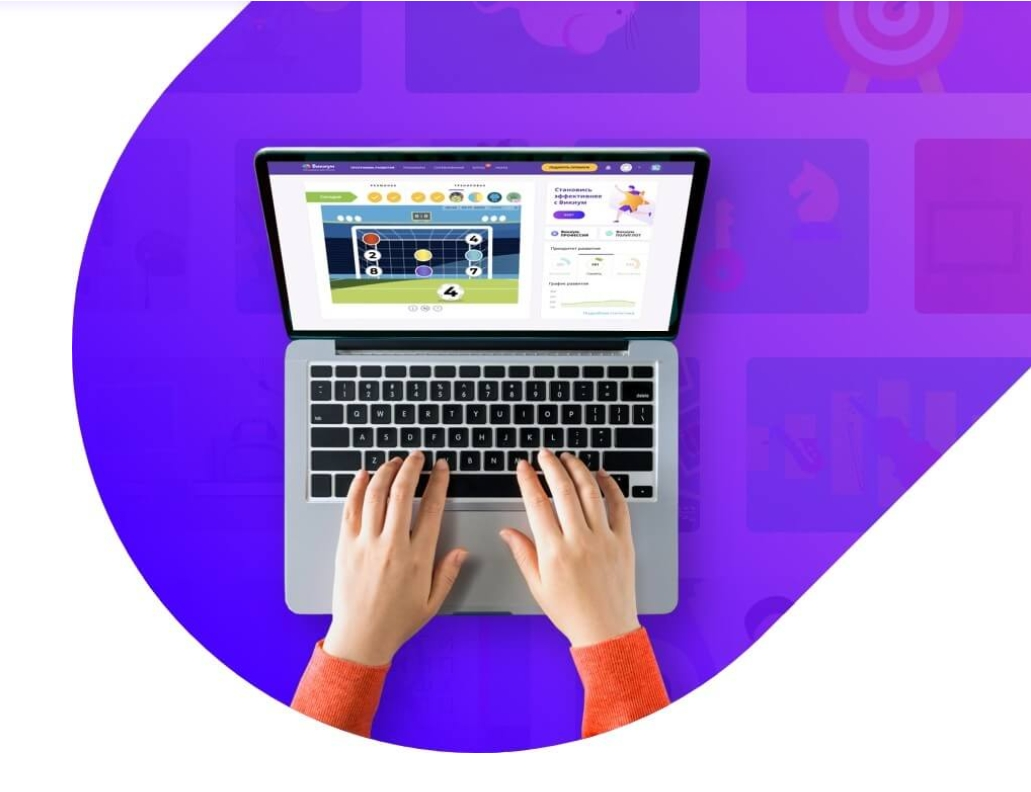
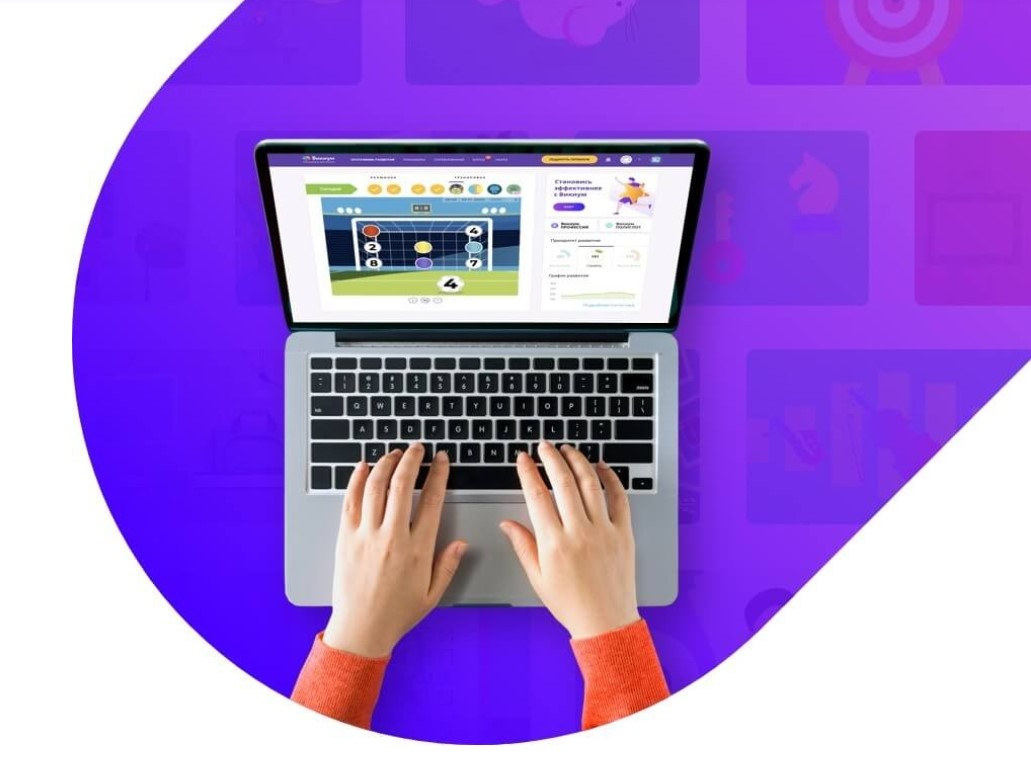
Add main content styles.

diff --git a/src/app/components/help/Help.component.html b/src/app/components/help/Help.component.html
@@ -1,45 +1,47 @@
 <section class="main-content__help help">
   <h2 class="main-content__title">Wikium will help</h2>
-  <article class="help__item">
-    <div class="help__img">
-      <img src="" alt="icon help">
-    </div>
-    <h4 class="help__title">Become more organized</h4>
-    <p class="help__description">Stop looking for the keys all the time</p>
-  </article>
-  <article class="help__item">
-    <div class="help__img">
-      <img src="" alt="icon help">
-    </div>
-    <h4 class="help__title">Think logically</h4>
-    <p class="help__description">Prove your words clearly</p>
-  </article>
-  <article class="help__item">
-    <div class="help__img">
-      <img src="" alt="icon help">
-    </div>
-    <h4 class="help__title">Memorize names and dates</h4>
-    <p class="help__description">Stop forgetting birthdays</p>
-  </article>
-  <article class="help__item">
-    <div class="help__img">
-      <img src="" alt="icon help">
-    </div>
-    <h4 class="help__title">Reveal the potential</h4>
-    <p class="help__description">Master the mnemonics, speed reading and other techniques</p>
-  </article>
-  <article class="help__item">
-    <div class="help__img">
-      <img src="" alt="icon help">
-    </div>
-    <h4 class="help__title">Find harmony in relationships</h4>
-    <p class="help__description">Learn to control and manage emotions</p>
-  </article>
-  <article class="help__item">
-    <div class="help__img">
-      <img src="" alt="icon help">
-    </div>
-    <h4 class="help__title">Grow professionally</h4>
-    <p class="help__description">Develop career skills</p>
-  </article>
+  <div class="help__container">
+    <article class="help__item">
+      <div class="help__img">
+        <img alt="icon help" height="45" width="46" src="../../../favicon.ico"/>
+      </div>
+      <h4 class="help__title">Become more organized</h4>
+      <p class="help__description">Stop looking for the keys all the time</p>
+    </article>
+    <article class="help__item">
+      <div class="help__img">
+        <img alt="icon help" height="45" width="46" src="../../../favicon.ico"/>
+      </div>
+      <h4 class="help__title">Think logically</h4>
+      <p class="help__description">Prove your words clearly</p>
+    </article>
+    <article class="help__item">
+      <div class="help__img">
+        <img alt="icon help" height="45" width="46" src="../../../favicon.ico"/>
+      </div>
+      <h4 class="help__title">Memorize names and dates</h4>
+      <p class="help__description">Stop forgetting birthdays</p>
+    </article>
+    <article class="help__item">
+      <div class="help__img">
+        <img alt="icon help" height="45" width="46" src="../../../favicon.ico"/>
+      </div>
+      <h4 class="help__title">Reveal the potential</h4>
+      <p class="help__description">Master the mnemonics, speed reading and other techniques</p>
+    </article>
+    <article class="help__item">
+      <div class="help__img">
+        <img alt="icon help" height="45" width="46" src="../../../favicon.ico"/>
+      </div>
+      <h4 class="help__title">Find harmony in relationships</h4>
+      <p class="help__description">Learn to control and manage emotions</p>
+    </article>
+    <article class="help__item">
+      <div class="help__img">
+        <img alt="icon help" height="45" width="46" src="../../../favicon.ico"/>
+      </div>
+      <h4 class="help__title">Grow professionally</h4>
+      <p class="help__description">Develop career skills</p>
+    </article>
+  </div>
 </section>

diff --git a/src/app/components/help/Help.component.scss b/src/app/components/help/Help.component.scss
@@ -1,0 +1,68 @@
+.help {
+  &__container {
+    padding: 0;
+    margin: 0;
+    display: flex;
+    flex-wrap: wrap;
+    -webkit-box-pack: center;
+    -ms-flex-pack: center;
+    justify-content: center;
+  }
+
+  &__item {
+    margin-bottom: 80px;
+    width: 33.3%;
+    display: flex;
+    -webkit-box-orient: vertical;
+    -webkit-box-direction: normal;
+    flex-direction: column;
+    -webkit-box-pack: start;
+    justify-content: flex-start;
+    -ms-flex-align: center;
+    align-items: center;
+  }
+
+  &__img {
+    display: flex;
+    -webkit-box-pack: center;
+    -ms-flex-pack: center;
+    justify-content: center;
+    -webkit-box-align: center;
+    -ms-flex-align: center;
+    align-items: center;
+    width: 72px;
+    height: 72px;
+    border-radius: 50%;
+    background-color: #fff;
+    box-shadow: 0 16px 40px 0 rgb(72 1 255 / 16%);
+    margin-bottom: 40px;
+  }
+
+  &__title {
+    font-size: 18px;
+    line-height: 24px;
+    font-weight: 900;
+    color: #000;
+    text-align: center;
+    max-width: 300px;
+  }
+
+  &__description {
+    font-size: 18px;
+    line-height: 24px;
+    color: #000;
+    text-align: center;
+    max-width: 300px;
+  }
+}
+
+.main-content {
+  &__title {
+    font-size: 36px;
+    line-height: 44px;
+    margin-bottom: 100px;
+    font-weight: 900;
+    color: #000;
+    text-align: center;
+  }
+}

diff --git a/src/app/components/header-main/Header-main.component.scss b/src/app/components/header-main/Header-main.component.scss
@@ -1,5 +1,9 @@
 .header-main {
   display: flex;
+  max-width: initial;
+  width: 100%;
+  justify-content: flex-end;
+  margin-top: 48px;
 
   &__content {
     max-width: 550px;
@@ -22,7 +26,6 @@
 
   &__img {
     width: 50vw;
-    height: 860px;
     background-position-x: right;
     margin-bottom: 0;
     background-image: url(../../images/laptop.jpg);

diff --git a/src/app/components/header-main/Header-main.component.html b/src/app/components/header-main/Header-main.component.html
@@ -1,4 +1,4 @@
-<div class="header__main">
+<div class="header-main">
   <div class="header-main__content">
     <h1 class="header-main__title"><span style="color: #8f4af9;">86%</span> of members have noted the progress after brain training on Wikium</h1>
     <div class="header-main__description description">

diff --git a/src/app/components/header/Header.component.scss b/src/app/components/header/Header.component.scss
@@ -1,4 +1,6 @@
 .header {
+  margin-bottom: 100px;
+
   &__nav {
     width: 100%;
     position: fixed;

diff --git a/src/app/components/main-content/Main-content.component.scss b/src/app/components/main-content/Main-content.component.scss
@@ -1,0 +1,4 @@
+.main-content {
+  padding-bottom: 90px;
+  margin: 0 auto;
+}
